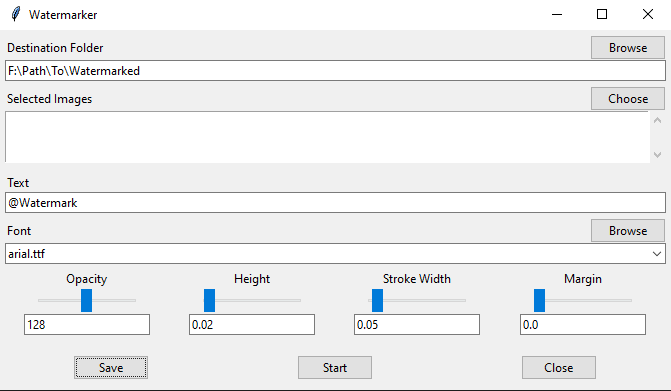
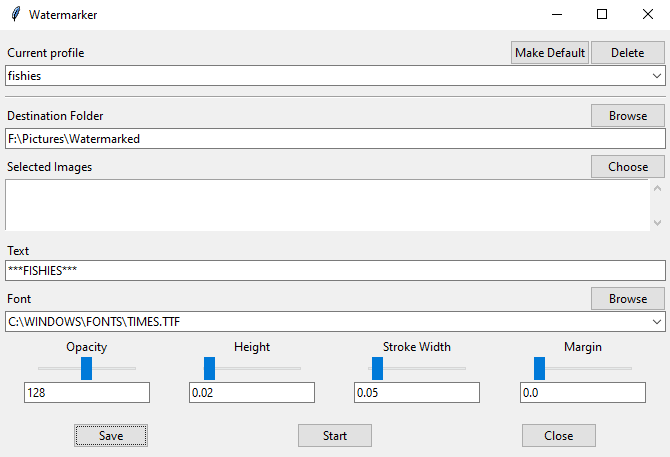
Update readme

diff --git a/README.md b/README.md
@@ -27,6 +27,9 @@ Double clicking on watermarker-gui.py/exe will open this window.
 
 We can see the following components:
 
+- **Current Profile**: The save profile that is used currently. Each profile stores watermark configurations allowing you to save several watermarks for later reuse. In this case, we have selected the 'fishies' profile, and have initialised all fields with the values stored in this profile. If you want to create a new profile, simply enter the name you want in the combo box and click "Save"
+- **Make Default button**: Click this to set the current profile as the default that will be loaded when Watermarker starts
+- **Delete button**: Click to delete the current profile
 - **Destination Folder**: Determines where the watermarked images will be saved. If the folder doesn't exist, it will be created when the watermarking process is started.
 - **Selected Images**: Use the 'Choose' button to choose the files that are to be watermarked.
 - **Text**: The text used by the watermark.
